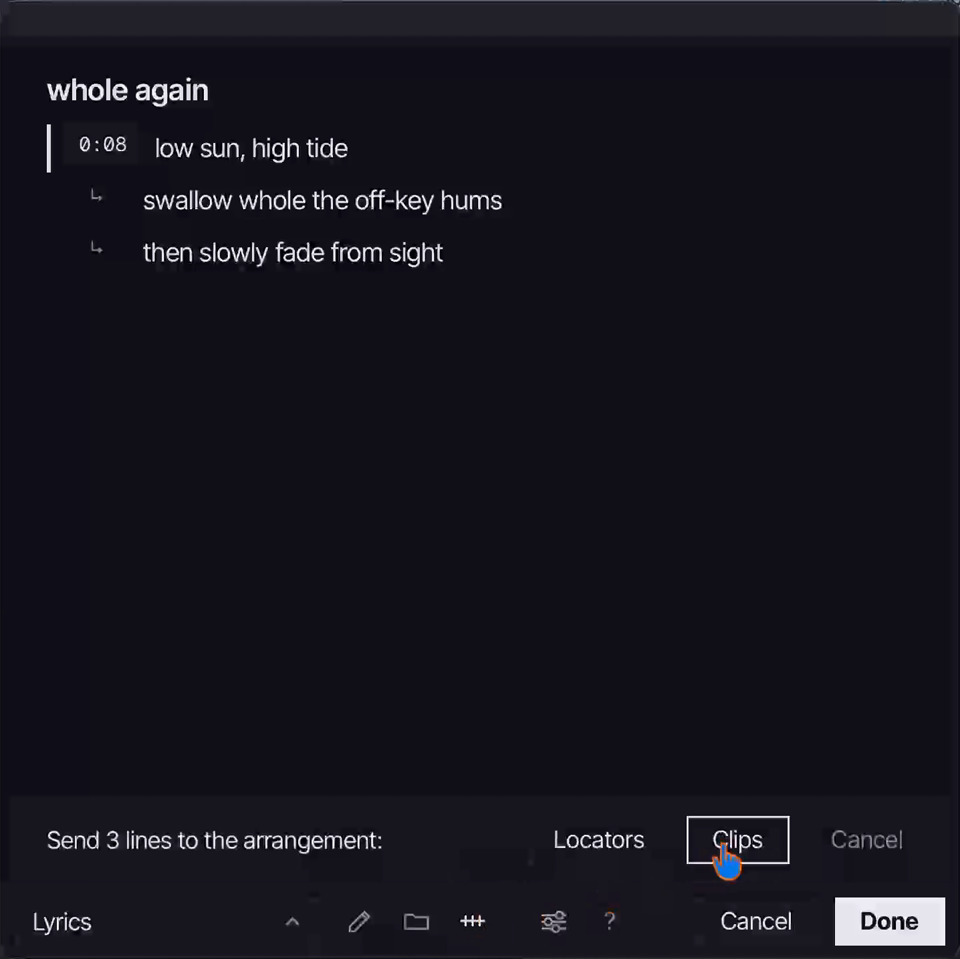
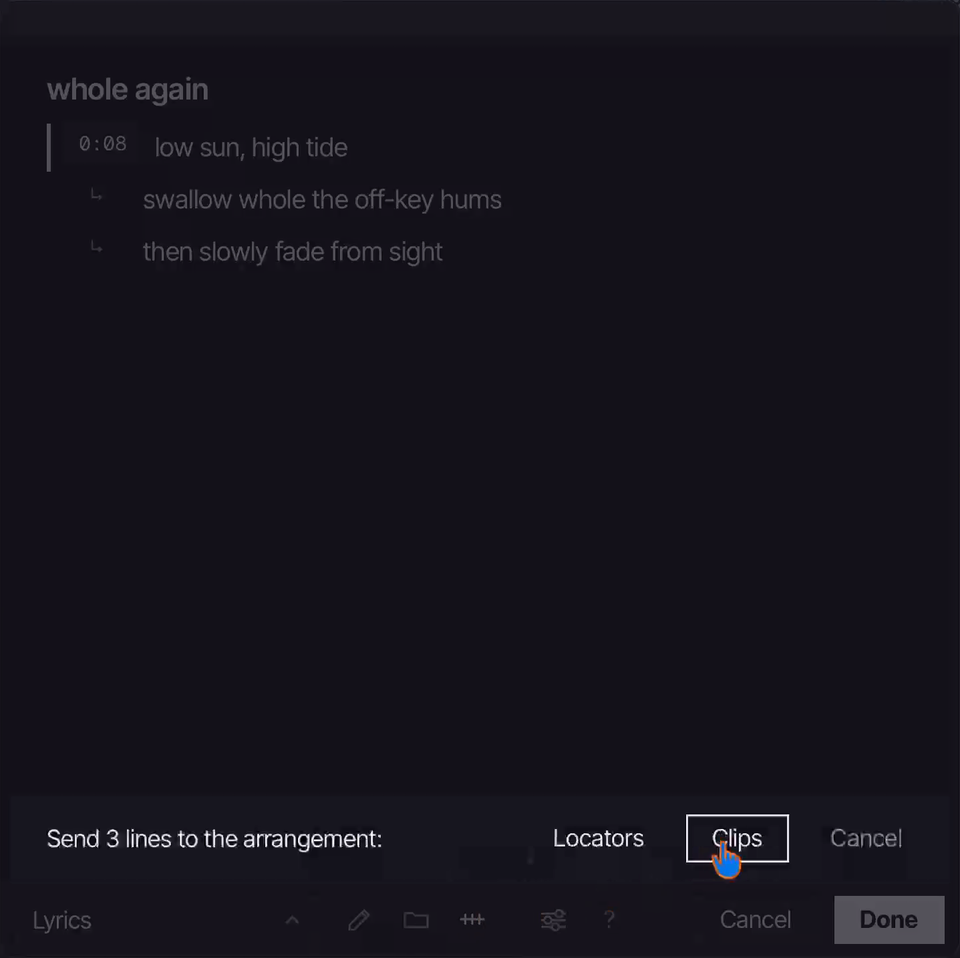
README: pictures that show the point, a full review
The pad shots dim everything but the verse or the send bar; locators and clips are full-width strips; the picker shot is only the dropdown. The demo stills and the Try it yourself example are gone.

Reviewed against the code: the pencil button toggles View and Edit, [=bpm] is listed, file location and copy path are back, Develop lists every source file and npm test.

diff --git a/README.md b/README.md
@@ -10,73 +10,48 @@ Simply sketch.
 
 **Notes that live with the set. Lyrics that land on the arrangement.**
 
-A minimal Markdown notepad for **Ableton Live 12**, built on the [Ableton Live Extensions SDK](https://ableton.com). Jot lyrics, ideas, and to-dos without leaving Ableton Live, with clean, native-feeling typography and a render-by-default Markdown view. Tag a lyric line with a bar or timecode and drop it straight onto the arrangement.
+A Markdown notepad inside **Ableton Live 12**, built on the Ableton Live Extensions SDK. Jot lyrics, ideas and to-dos without leaving Ableton Live. Tag a lyric line with a bar or a time and send it straight onto the arrangement.
 
 > Requires Ableton Live 12.4.15 beta or later, with the Extensions feature (SDK `1.0.0-beta.0`).
 
-## In pictures
+## See it in action
 
-<img src="media/playground-paper.png" alt="Session Notes demo: a verse tagged [9] lands at bar 9 as clips on the Session Notes track" width="720">
+Tag the first line of a verse with where it goes. In **View**, each line shows its spot; open the send bar and pick **Locators** or **Clips**:
 
-Files to share: [still, Paper](media/playground-paper.png) · [still, Night](media/playground-night.png)
+| Tag a line | Send it |
+| :---: | :---: |
+| ![A verse in View: the first line tagged 0:08, the two lines under it following](assets/screenshots/pad-view.png) | ![The send bar: Send 3 lines to the arrangement, as Locators or Clips](assets/screenshots/pad-send.png) |
+
+**As locators**, named on the ruler:
+
+<img src="assets/screenshots/arrangement-locators.png" alt="Three locators on the arrangement ruler, named after the three lines of the verse" width="100%">
+
+**As clips**, on the Session Notes track:
+
+<img src="assets/screenshots/arrangement-clips.png" alt="Three clips on the Session Notes track, named after the three lines of the verse" width="100%">
+
+**Set notes and global notes** share one picker. Set notes belong to this set; global notes are in every set:
+
+<img src="assets/screenshots/pad-picker.png" alt="The note picker: This set holds Lyrics and Progress, Global notes holds Ideas, with Restore from backup at the bottom" width="360">
 
 ## Features
 
-- **Markdown, rendered by default.** Write in Markdown; a single tap or `⌘E` toggles between **View** and **Edit**. Headings, bullet/numbered lists, bold/italic, blockquotes, links, and clickable GFM task lists (`- [ ]` / `- [x]`).
-- **Lyrics on the arrangement.** Tag a lyric line with its position, then send the block to the arrangement as **locators** or **clips**. Positions can be a bar (`[17]`), a bar and beat (`[17.3]`), a timecode (`[1:04]`), or a bit of math (`[=8*4]`). Untagged lines under a tag flow one bar apart, and a blank line ends the block so your prose and to-dos are left alone.
+- **Markdown, rendered by default.** Write in Markdown; the pencil button or `⌘E` switches between **View** and **Edit**. Headings, bullet and numbered lists, bold and italic, blockquotes, links, and to-dos (`- [ ]` / `- [x]`) you can tick in View.
+- **Lyrics on the arrangement.** Tag a lyric line with its position, then send the block as **locators** or **clips**. A position can be a bar (`[17]`), a bar and beat (`[17.3]`), a time (`[1:04]`), or a bit of math (`[=8*4]`, `[=bpm]`). Untagged lines under a tag follow one bar apart, and a blank line ends the block, so your other notes and to-dos are left alone.
 - **Two kinds of notes:**
   - **Set notes** are saved inside the set and **travel with it**: Save As, moving or renaming the project folder, another computer, a collaborator. Keep as many as you like per set.
   - **Global notes** stay on this computer and are in every set.
-- **Manage notes in place.** The note picker lists **This set** and **Global notes**; create, rename, and delete notes right there.
+- **Manage notes in place.** The note picker lists **This set** and **Global notes**; create, rename and delete notes right there.
 - **Backups.** Every save also keeps a backup on this computer. **Restore from backup…** in the note picker brings back an earlier version.
-- **Settings panel.** Tune the note text size, pick a compact or default window, and flip on **Zen Mode** for distraction-free writing.
-- **Autosave on close.** Close the pad (**Done**, `⌘S`, or `Esc`) and it saves; **Cancel** discards edits made since you opened it.
-- **Remembers your place.** Reopens whatever note you had open last.
-- A built-in **Markdown & lyric-timing help** (the `?` button).
-
-## See it in action
-
-Write in Markdown, hit **View** to render it, then tag any lyric line with its position and send the block to the arrangement:
-
-| In the note (View) | Ready to send |
-| :---: | :---: |
-| ![A rendered verse tagged 0:08, the lines under it following on an accent rail](assets/screenshots/pad-view.png) | ![The same note with the send bar open, offering Locators or Clips](assets/screenshots/pad-send.png) |
-
-They land on the arrangement as named **locators** (on the ruler) or **clips** (on the Session Notes track), lined up to the bars and timecodes you tagged:
-
-| As locators | As clips |
-| :---: | :---: |
-| ![The verse as three named locators on the arrangement ruler](assets/screenshots/arrangement-locators.png) | ![The verse as three clips on the Session Notes track](assets/screenshots/arrangement-clips.png) |
-
-Set notes and global notes share one picker:
-
-<img src="assets/screenshots/pad-picker.png" alt="The note picker: This set holds Lyrics and Progress, Global notes holds Ideas, with Restore from backup at the bottom" width="480">
-
-Settings and the built-in help are a button away:
+- **Autosave on close.** **Done**, `⌘S` or `Esc` saves and closes; **Cancel** throws away the edits since you opened the pad.
+- **Remembers your place.** Reopens the note you had open last.
+- **File location.** The folder button shows where a global note's file is, or a set note's backup, with a button to copy the path.
+- **Settings.** Note text size, a compact or regular window, and **Zen Mode**, which hides the toolbar for distraction-free writing.
+- **Built-in help** (the `?` button) for Markdown and lyric timing.
 
 | Settings | Markdown help | Lyric-timing help |
 | :---: | :---: | :---: |
 | ![The settings panel with text size, window size, and Zen Mode](assets/screenshots/settings.png) | ![The Markdown help: what to type and what it renders as](assets/screenshots/help-markdown.png) | ![The lyric-timing help showing tag formats and where each one lands](assets/screenshots/help-lyrics.png) |
-
-Try it yourself: paste this into a note, switch to **View**, then press the send-to-arrangement button.
-
-```markdown
-# Whole Again
-
-Key: A minor · 128 BPM · ref: that Bonobo track
-
-- [x] Track the drums
-- [ ] Re-amp the bass on the second drop
-- [ ] Mix the vocal louder in the bridge
-
-Verse: keep it breathy, close-mic.
-
-[1] low sun, high tide
-swallow whole the off-key hums
-[1:04] then slowly fade from sight
-```
-
-The `#` heading, the prose line, and the to-dos are left out; only the tagged block is sent to the arrangement. The untagged `swallow whole the off-key hums` flows one bar after `[1]`.
 
 ## Install
 
@@ -86,7 +61,7 @@ The `#` heading, the prose line, and the to-dos are left out; only the tagged bl
 
 ## Usage notes
 
-- Open it from the right-click menu on an **audio/MIDI track, clip slot, or scene**. (The SDK has no global menu, so it attaches to the objects you can reach almost anywhere.)
+- Open it from the right-click menu on an **audio or MIDI track, clip slot, or scene**. (The SDK has no global menu, so it attaches to the things you can reach almost anywhere.)
 - **Where set notes live:** the first **Done** that saves set notes adds a MIDI track named **Session Notes** with no devices, so it never makes a sound. Its clips carry your notes, so keep the track. Lyric clips land on it too. A set that already has a **Lyrics** track from an earlier version keeps using that one.
 - After **Done**, Ableton Live shows the set as changed. Save the set to keep the notes in it; until then they're safe in the backup.
 - **Coming from 0.2.x:** global notes come across on their own. Ableton Live no longer lets extensions read project folders, so drag your old set notes (the `.md` files in a project's `Session Notes/` folder) onto the pad to add them.
@@ -100,11 +75,22 @@ Copy `.env.example` to `.env` and point `EXTENSION_HOST_PATH` at your local Able
 ```bash
 npm install
 npm start        # build + run in Ableton Live's Extension Host (Developer Mode must be ON)
+npm test         # every test file in test/
 npm run build    # dev bundle
 npm run package  # production bundle → Session-Notes-<version>.ablx
+npm run demo     # the web demo, served locally
 ```
 
-Node ≥ 22.11 is required (the SDK's minimum). Source lives in `src/extension.ts` (host logic) and `src/interface.html` (the webview UI).
+Node ≥ 22.11 is required (the SDK's minimum). The source is in `src/`:
+
+- `extension.ts`: the host side, wiring everything together
+- `interface.html`: the pad (the web view)
+- `session.ts`: opening and saving a set's notes
+- `setdata.ts` and `codec.ts`: reading and writing set notes as clips on the Session Notes track
+- `reconcile.ts`: deciding which notes the pad shows when the set and the backup differ
+- `backups.ts`: backups, Restore, and bringing notes across from older versions
+- `notes.ts`: global notes and the pad's saved state
+- `timeline.ts`: where each lyric line lands on the arrangement
 
 ## License
 
